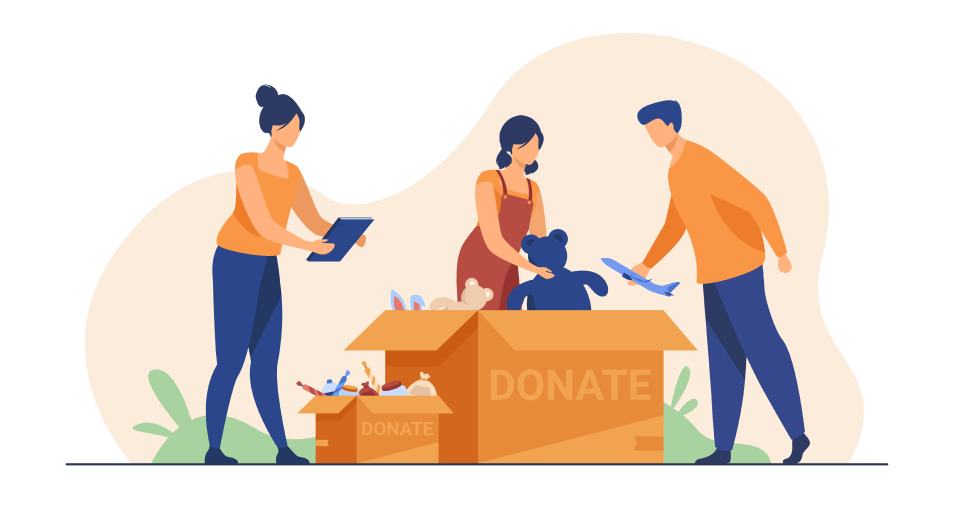
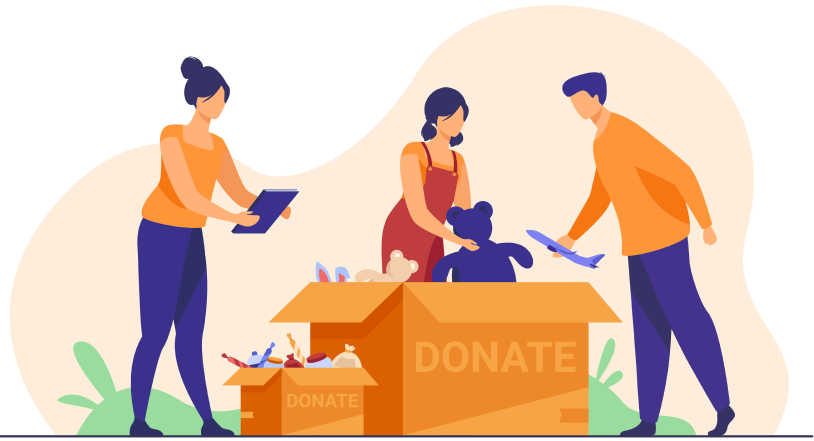
added image for hero of home page

diff --git a/src/pages/Home/Home.jsx b/src/pages/Home/Home.jsx
@@ -122,29 +122,30 @@ const Home = () => {
 				</div>
 				<div className={styles.hero}>
 					<div className={styles.hero_content_2}>
-						<h3>Street-To-School <br /> Project 2022</h3>
+						<h3>
+							Street-To-School <br /> Project 2022
+						</h3>
 						<h1>Do you know an out-of-school child in your street? Or a child about to drop out of school?</h1>
 						<p>Then, Nominate a street child for #STREET-TO-SCHOOL. Help that child today!</p>
 					</div>
 					<div className={styles.hero_image}>
-						<img src="/assets/hero-image1.png" alt="" />
+						<img src="/assets/hero-image2.png" alt="" />
 					</div>
-					<button
-						onClick={() => {
-							window.scrollTo({
-								top: 0,
-								left: 0,
-								behavior: 'smooth',
-							});
-							navigate('/donate');
-						}}
-					>
-						<Link>Nominate now</Link>
+					<button>
+						<a
+							href="https://zfrmz.com/BGkkjNK7cPhcUJvIMVRE"
+							target={'_blank'}
+							// className={'bg-secondary-main p-3 px-5 text-white rounded-md font-semibold'}
+						>
+							Nominate Now
+						</a>
 					</button>
 				</div>
 				<div className={styles.hero}>
 					<div className={styles.hero_content_3}>
-						<h3>Street-To-School <br /> Project 2022</h3>
+						<h3>
+							Street-To-School <br /> Project 2022
+						</h3>
 						<h1>
 							Donate cheerfully to <span>#enroll-a-street-child in school.</span>
 						</h1>

diff --git a/src/pages/Home/Home.module.css b/src/pages/Home/Home.module.css
@@ -7,7 +7,7 @@
 	/* Tablet Styles */
 
 	/* Desktop Styles */
-	@apply lg:grid-cols-2 lg:grid-rows-[repeat(6,minmax(0px,auto))] lg:justify-items-start lg:items-center lg:gap-y-0 lg:gap-x-5;
+	@apply lg:grid-cols-2 lg:grid-rows-[repeat(6,minmax(85px,auto))] lg:justify-items-start lg:items-center lg:gap-y-0 lg:gap-x-5;
 }
 
 .dot{
@@ -31,15 +31,15 @@
 }
 
 .hero_content_2 h3, .hero_content_3 h3{
-	@apply bg-primary bg-opacity-50 md:w-1/2 p-2 rounded-lg text-xl font-semibold
+	@apply bg-primary bg-opacity-50 md:w-1/2 p-2 rounded-lg text-xl font-semibold animate-slide-right
 }
 
 .hero_content_1 h1, .hero_content_2 h1, .hero_content_3 h1 {
 	/* Mobile Styles */
-	@apply text-3xl font-bold my-4 animate-slide-left;
+	@apply text-2xl font-bold my-4 animate-slide-left;
 
 	/* Desktop Styles */
-	@apply lg:text-5xl lg:my-8 lg:w-4/5;
+	@apply lg:text-4xl lg:my-8 lg:w-4/5;
 }
 
 .hero_content_1 h1 > span, .hero_content_2 h1 > span, .hero_content_3 h1 > span {
